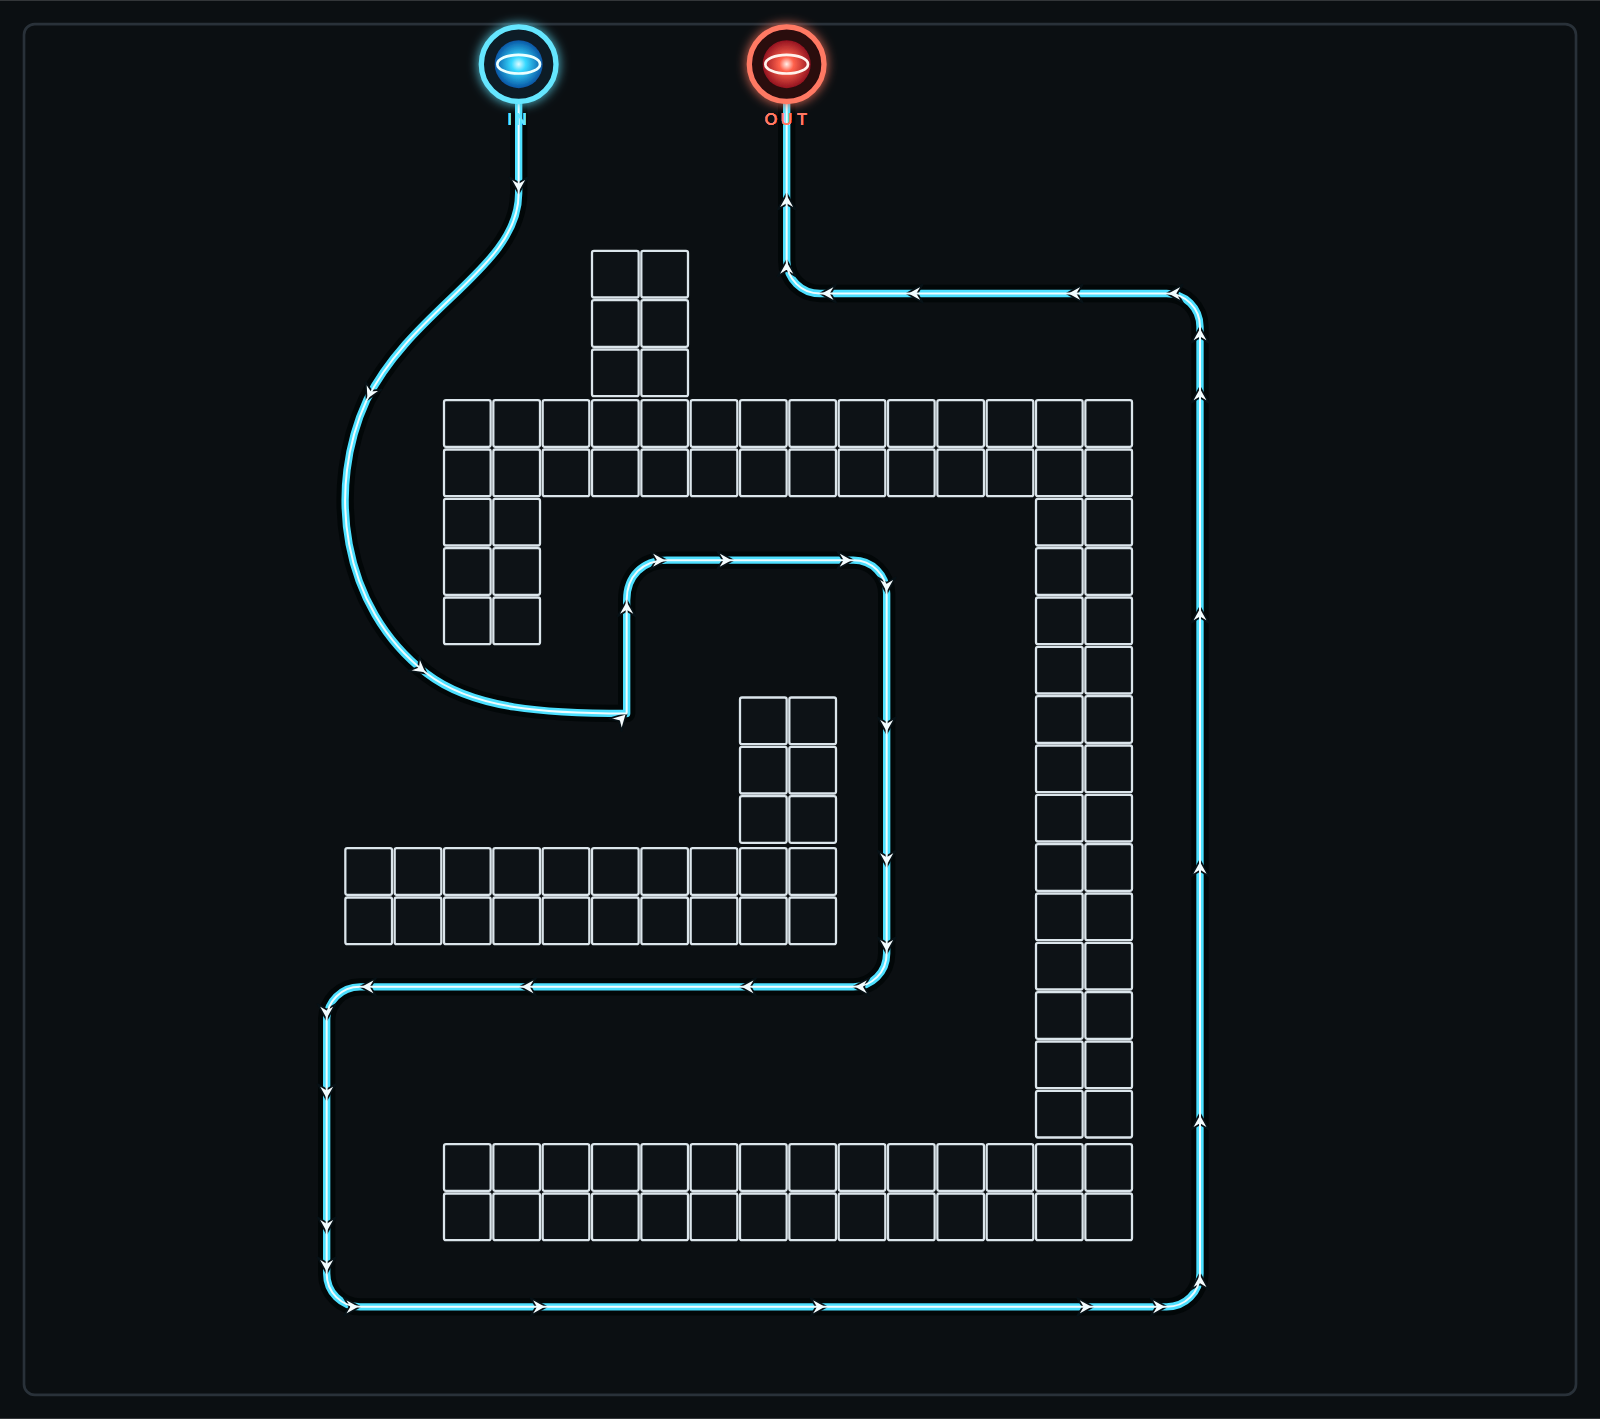
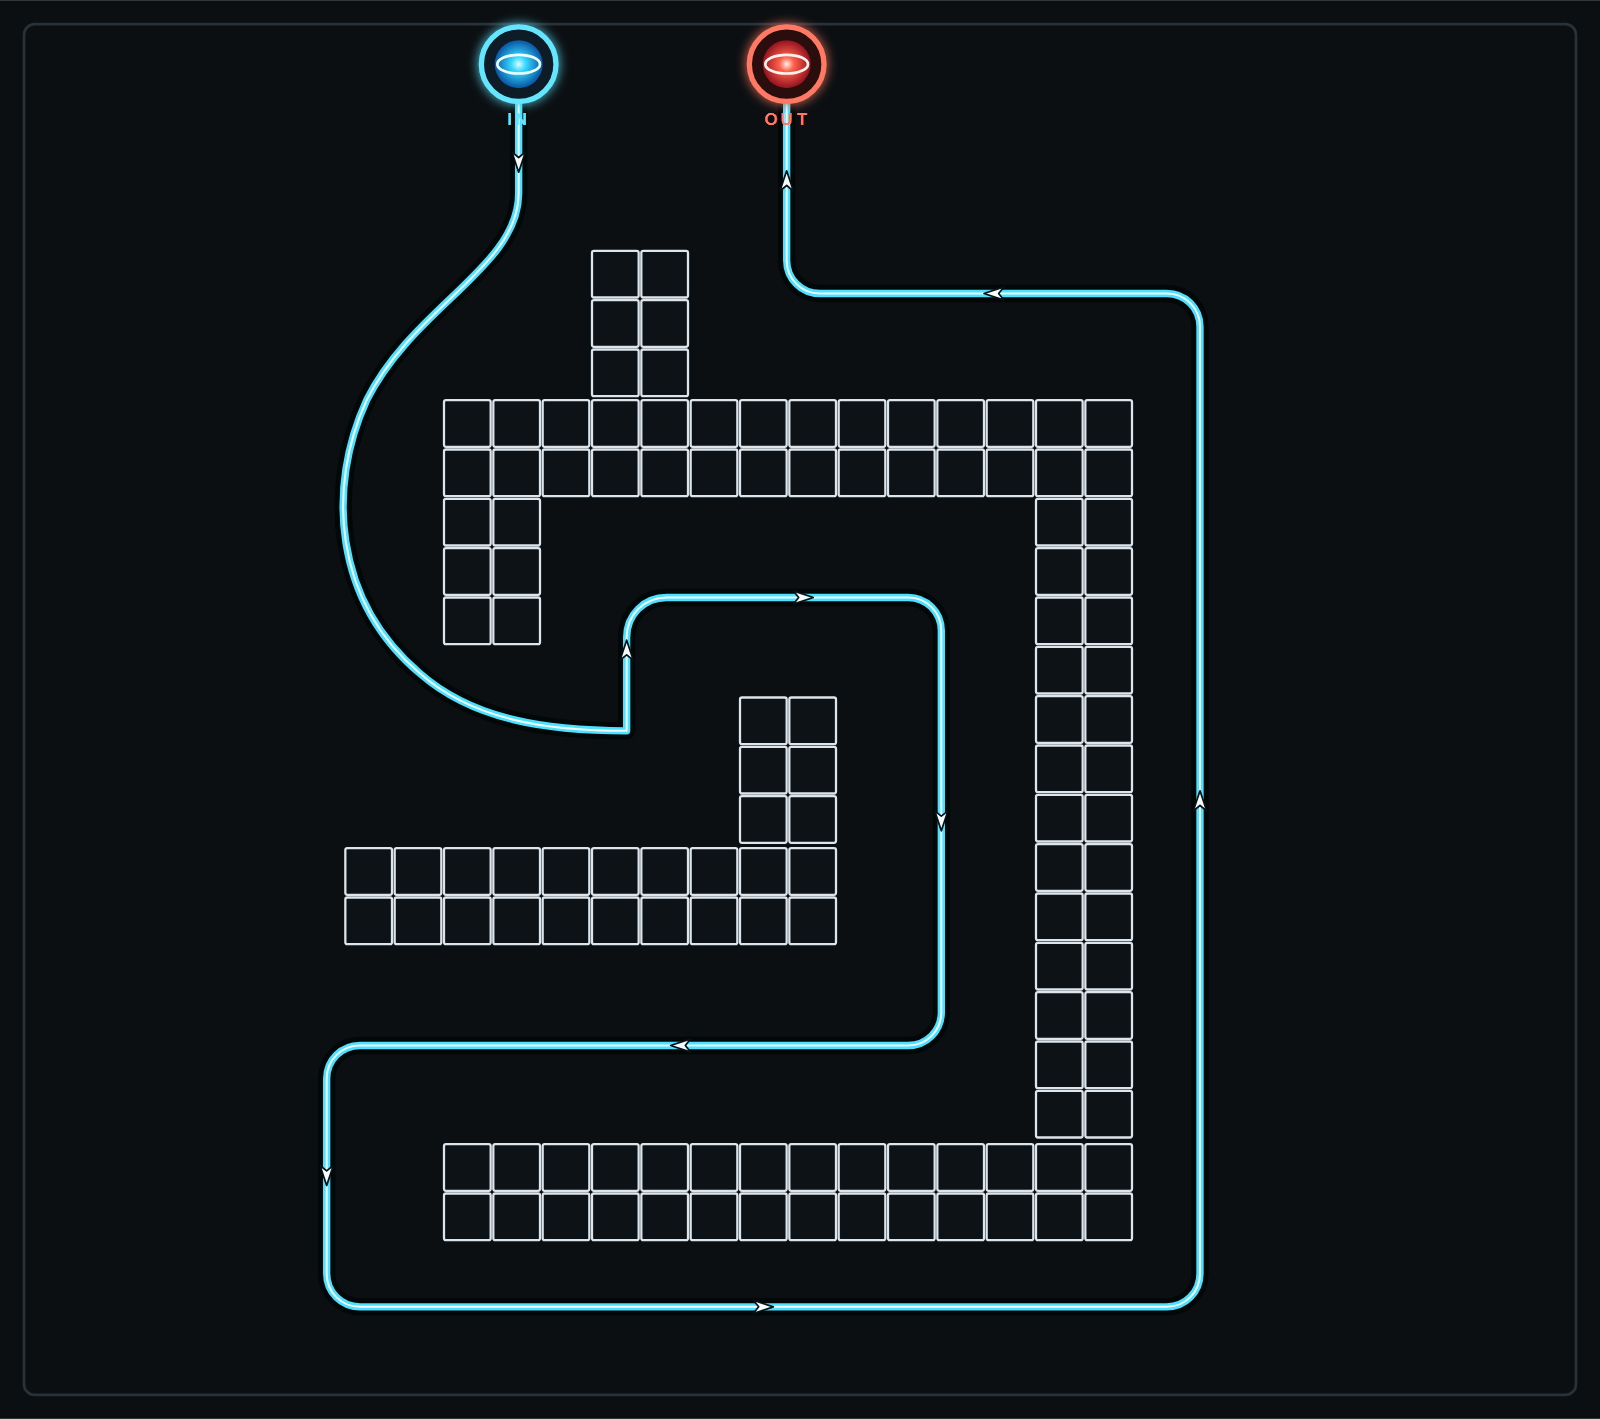
feat(live/map): schematic-view portals, direction arrows, and a dead-cells fix
Restyles the player-facing schematic (not the editor/screenshot view) to
match the reference UI: glowing IN/OUT portal markers at each path's
endpoints, and evenly-spaced direction chevrons along the route (spaced
by arc length, not point count, so traced polylines with uneven segment
lengths don't bunch arrows on short hops). New --map-route/--map-out
tokens carry the accent — brighter than the muted --mech-* family
colors on purpose, since this is a wayfinding display, not a synergy
indicator.

Also fixes a real bug the richer Forest layout exposed: deadCells()
filled each island's bounding rectangle independently, and this map's
interlocking shape has two islands whose boxes overlap, so shared cells
were emitted twice — duplicate React keys in the console and, more to
the point, the same dead cell counted twice. Deduped and locked with a
regression test reproducing the overlap shape.

diff --git a/components/live/MapPanel.tsx b/components/live/MapPanel.tsx
@@ -80,6 +80,51 @@ function pathD(project: Projector, path: MapPath): string {
     .join(" ");
 }
 
+type ArrowMarker = { x: number; y: number; angle: number };
+
+/**
+ * Direction chevrons along a path, evenly spaced by arc length in grid
+ * units (not by point count — traced polylines have wildly uneven segment
+ * lengths, so walking points directly would bunch arrows on short hops
+ * and leave long straights bare).
+ */
+function arrowMarkers(
+  points: readonly GridPoint[],
+  spacing: number,
+): ArrowMarker[] {
+  if (points.length < 2 || spacing <= 0) return [];
+  const segments = [];
+  for (let i = 1; i < points.length; i++) {
+    const a = points[i - 1];
+    const b = points[i];
+    const dx = b.col - a.col;
+    const dy = b.row - a.row;
+    const len = Math.hypot(dx, dy);
+    if (len > 1e-6) {
+      segments.push({ a, dx, dy, len, angle: (Math.atan2(dy, dx) * 180) / Math.PI });
+    }
+  }
+  const total = segments.reduce((sum, seg) => sum + seg.len, 0);
+  if (total === 0) return [];
+
+  const markers: ArrowMarker[] = [];
+  let target = Math.min(spacing * 0.6, total / 2);
+  let travelled = 0;
+  for (const seg of segments) {
+    while (target <= travelled + seg.len) {
+      const t = (target - travelled) / seg.len;
+      markers.push({
+        x: seg.a.col + seg.dx * t,
+        y: seg.a.row + seg.dy * t,
+        angle: seg.angle,
+      });
+      target += spacing;
+    }
+    travelled += seg.len;
+  }
+  return markers;
+}
+
 function cellPolygon(project: Projector, cell: GridPoint): string {
   return (
     [
@@ -664,14 +709,66 @@ export function MapPanel({ assets }: { assets: BuildLabAssets }) {
               );
             })}
 
-            {activePaths.map((path) => (
-              <path
-                key={path.id}
-                d={pathD(project, path)}
-                className="live-map-path"
-                fill="none"
-              />
-            ))}
+            {activePaths.map((path) => {
+              const d = pathD(project, path);
+              return (
+                <g key={path.id}>
+                  {!showScreenshot && (
+                    <path d={d} className="live-map-path-glow" fill="none" />
+                  )}
+                  <path d={d} className="live-map-path" fill="none" />
+                </g>
+              );
+            })}
+
+            {!showScreenshot &&
+              activePaths.map((path) => (
+                <g key={`arrows-${path.id}`} className="live-map-arrows">
+                  {arrowMarkers(path.points, 1.6).map((arrow, i) => (
+                    <path
+                      key={i}
+                      d="M -0.11,-0.15 L 0.15,0 L -0.11,0.15 Z"
+                      transform={`translate(${arrow.x} ${arrow.y}) rotate(${arrow.angle})`}
+                      className="live-map-arrow"
+                    />
+                  ))}
+                </g>
+              ))}
+
+            {!showScreenshot &&
+              activePaths.map((path) => {
+                if (path.points.length < 2) return null;
+                const start = path.points[0];
+                const end = path.points[path.points.length - 1];
+                return (
+                  <g key={`portals-${path.id}`}>
+                    <g className="live-map-portal" data-kind="in">
+                      <circle cx={start.col} cy={start.row} r={0.62} className="live-map-portal-glow" />
+                      <circle cx={start.col} cy={start.row} r={0.34} className="live-map-portal-core" />
+                      <text
+                        x={start.col}
+                        y={start.row + 0.95}
+                        className="live-map-portal-label"
+                        style={{ fontSize: cellUnitSize * 0.24 }}
+                      >
+                        IN
+                      </text>
+                    </g>
+                    <g className="live-map-portal" data-kind="out">
+                      <circle cx={end.col} cy={end.row} r={0.62} className="live-map-portal-glow" />
+                      <circle cx={end.col} cy={end.row} r={0.34} className="live-map-portal-core" />
+                      <text
+                        x={end.col}
+                        y={end.row + 0.95}
+                        className="live-map-portal-label"
+                        style={{ fontSize: cellUnitSize * 0.24 }}
+                      >
+                        OUT
+                      </text>
+                    </g>
+                  </g>
+                );
+              })}
 
             {editMode === "calibrate" &&
               calibrationClicks.map((p, i) => (

diff --git a/app/globals.css b/app/globals.css
@@ -4751,6 +4751,13 @@ button.mechanic-chip {
 }
 
 /* ── Map placement ────────────────────────────────────────── */
+:root {
+  /* The schematic view's route/portal accents — deliberately brighter
+     than the muted --mech-* family colors: this is a wayfinding display
+     (spawn vs. exit, direction of travel), not a synergy indicator. */
+  --map-route: 88 209 255;
+  --map-out: 255 122 92;
+}
 .live-focal[data-wide] {
   max-width: 820px;
 }
@@ -4935,6 +4942,53 @@ button.mechanic-chip {
   stroke-linecap: round;
   stroke-linejoin: round;
   vector-effect: non-scaling-stroke;
+}
+.live-map-stage[data-schematic] .live-map-path {
+  stroke: rgb(var(--map-route) / 1);
+  stroke-width: 7;
+}
+.live-map-path-glow {
+  stroke: rgb(var(--map-route) / 0.35);
+  stroke-width: 20;
+  stroke-linecap: round;
+  stroke-linejoin: round;
+  vector-effect: non-scaling-stroke;
+  pointer-events: none;
+}
+.live-map-arrow {
+  fill: rgb(255 255 255 / 0.85);
+  stroke: none;
+}
+.live-map-arrows {
+  pointer-events: none;
+}
+.live-map-portal {
+  pointer-events: none;
+}
+.live-map-portal-glow {
+  fill: rgb(var(--map-route) / 0.28);
+}
+.live-map-portal[data-kind="out"] .live-map-portal-glow {
+  fill: rgb(var(--map-out) / 0.28);
+}
+.live-map-portal-core {
+  fill: rgb(var(--map-route) / 1);
+  stroke: var(--bg);
+  stroke-width: 0.05;
+}
+.live-map-portal[data-kind="out"] .live-map-portal-core {
+  fill: rgb(var(--map-out) / 1);
+}
+.live-map-portal-label {
+  font-family: var(--font-mono, monospace);
+  font-weight: 700;
+  letter-spacing: 0.03em;
+  fill: rgb(var(--map-route) / 0.9);
+  text-anchor: middle;
+  user-select: none;
+}
+.live-map-portal[data-kind="out"] .live-map-portal-label {
+  fill: rgb(var(--map-out) / 0.9);
 }
 .live-map-calib-point {
   fill: #e6c15f;

diff --git a/tests/domain/mapPlacement.test.ts b/tests/domain/mapPlacement.test.ts
@@ -525,6 +525,37 @@ describe("deadCells", () => {
     });
     expect(deadCells(map)).toEqual([]);
   });
+
+  it("dedupes a cell claimed by two islands whose bounding boxes overlap", () => {
+    // An "L" island (row 0 plus a right-hand column) whose bounding box
+    // is cols 0-4 / rows 0-4, and a second, disconnected diagonal island
+    // sitting entirely inside that box. Both islands' rectangle-fills
+    // land on (2,2) and (1,3) — a real shape this session traced onto
+    // Forest hits this exact case, and without dedup those two cells
+    // were emitted twice, breaking React's key uniqueness.
+    const map = straightPathMap({
+      buildableCells: [
+        { col: 0, row: 0 },
+        { col: 1, row: 0 },
+        { col: 2, row: 0 },
+        { col: 3, row: 0 },
+        { col: 4, row: 0 },
+        { col: 4, row: 1 },
+        { col: 4, row: 2 },
+        { col: 4, row: 3 },
+        { col: 4, row: 4 },
+        // Disconnected from the L above (no shared edge or corner) —
+        // its own island, but its bounding box sits inside the L's.
+        { col: 1, row: 2 },
+        { col: 2, row: 3 },
+      ],
+    });
+    const dead = deadCells(map);
+    const keys = dead.map((c) => `${c.col},${c.row}`);
+    expect(new Set(keys).size).toBe(keys.length);
+    expect(keys.filter((k) => k === "2,2")).toHaveLength(1);
+    expect(keys.filter((k) => k === "1,3")).toHaveLength(1);
+  });
 });
 
 describe("worldToGrid", () => {

diff --git a/lib/engine/mapPlacement.ts b/lib/engine/mapPlacement.ts
@@ -378,6 +378,7 @@ export function deadCells(map: MapConfig): GridPoint[] {
   const buildableKeys = new Set(
     map.buildableCells.map((c) => `${c.col},${c.row}`),
   );
+  const seen = new Set<string>();
   const dead: GridPoint[] = [];
 
   for (const group of islands(map)) {
@@ -390,7 +391,14 @@ export function deadCells(map: MapConfig): GridPoint[] {
 
     for (let col = minCol; col <= maxCol; col++) {
       for (let row = minRow; row <= maxRow; row++) {
-        if (!buildableKeys.has(`${col},${row}`)) dead.push({ col, row });
+        const key = `${col},${row}`;
+        // Two islands' bounding rectangles can overlap when the layout
+        // interlocks (e.g. one island's box sits partly inside another's
+        // empty corner) — dedupe so a shared cell isn't emitted twice.
+        if (!buildableKeys.has(key) && !seen.has(key)) {
+          seen.add(key);
+          dead.push({ col, row });
+        }
       }
     }
   }
